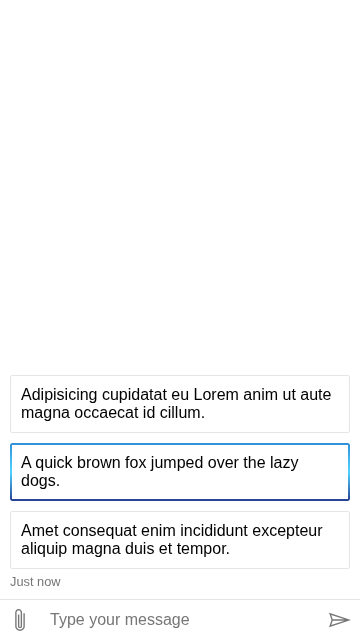
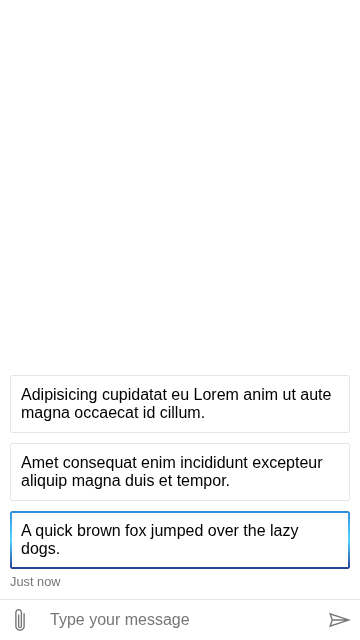
Fix test: livestream finalize should move it to bottom

Changed region(s): [[0.0306, 0.6875, 0.9778, 0.9062]]

diff --git a/__tests__/html2/livestream/activityOrder.html b/__tests__/html2/livestream/activityOrder.html
@@ -233,11 +233,11 @@
         );
         expect(pageElements.activityContents()[1]).toHaveProperty(
           'textContent',
-          'A quick brown fox jumped over the lazy dogs.'
+          'Amet consequat enim incididunt excepteur aliquip magna duis et tempor.'
         );
         expect(pageElements.activityContents()[2]).toHaveProperty(
           'textContent',
-          'Amet consequat enim incididunt excepteur aliquip magna duis et tempor.'
+          'A quick brown fox jumped over the lazy dogs.'
         );
         expect(pageElements.typingIndicator()).toBeFalsy();
         await host.snapshot('local');
@@ -245,8 +245,8 @@
         // THEN: Should have 3 activity keys.
         expect(currentActivityKeysWithId).toEqual([
           [firstActivityKey, ['a-00001']],
-          [secondActivityKey, ['t-00001', 't-00002', 't-00003', 'a-00002']],
-          [thirdActivityKey, ['a-00003']]
+          [thirdActivityKey, ['a-00003']],
+          [secondActivityKey, ['t-00001', 't-00002', 't-00003', 'a-00002']]
         ]);
       });
     </script>
